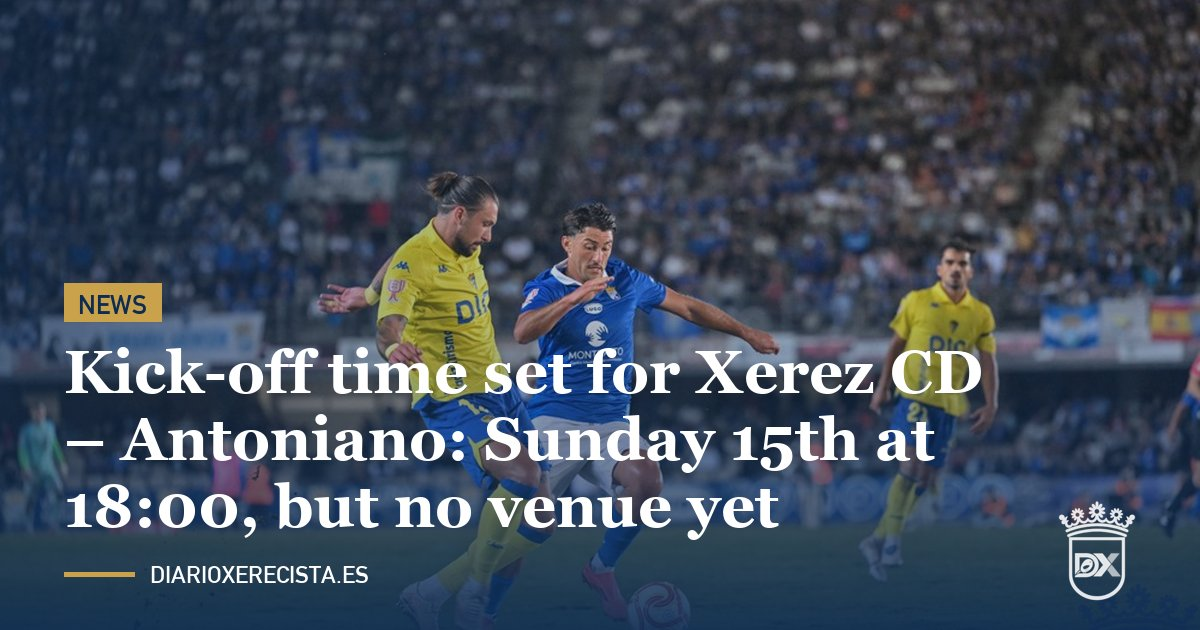
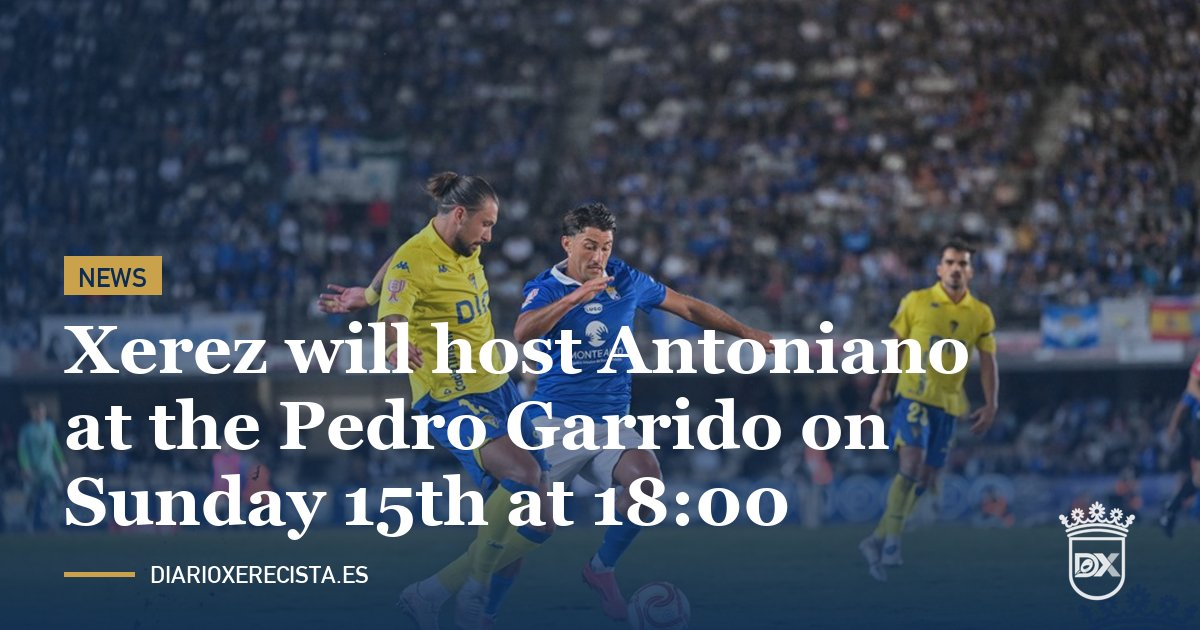
art122: el partido ante el Antoniano será en el Pedro Garrido, con grada supletoria; nuevo titular (ES+EN)

Changed region(s): [[0.0308, 0.3921, 0.8325, 0.8746]]

diff --git a/noticias/articulos/2026-11/ya-hay-horario-para-el-xerez-cd-antoniano-domingo-15-a-las-1800-pero-sin-campo/index.html b/noticias/articulos/2026-11/ya-hay-horario-para-el-xerez-cd-antoniano-domingo-15-a-las-1800-pero-sin-campo/index.html
@@ -3,8 +3,8 @@
 <head>
 <meta charset="UTF-8">
 <meta name="viewport" content="width=device-width, initial-scale=1.0">
-<title>Ya hay horario para el Xerez CD – Antoniano: domingo 15 a las 18:00, pero sin campo | Diario Xerecista</title>
-<meta name="description" content="El partido entre el Xerez CD y el Atlético Antoniano, de la jornada 11 de la Segunda RFEF, Grupo IV, se jugará el domingo 15 de noviembre a las 18:00. Lo que todavía no se sabe es dónde: Chapín no estará disponible por la resiembra del césped.">
+<title>El Xerez recibirá el domingo 15 a las 18:00 al Antoniano en el Pedro Garrido | Diario Xerecista</title>
+<meta name="description" content="El Xerez CD jugará ante el Atlético Antoniano el domingo 15 de noviembre a las 18:00 en el Estadio Pedro Garrido, en la jornada 11 de la Segunda RFEF, Grupo IV. El club quiere instalar una grada supletoria para ampliar el aforo.">
 <meta name="robots" content="index, follow, max-snippet:-1, max-image-preview:large">
 <link rel="canonical" href="https://www.diarioxerecista.es/noticias/articulos/2026-11/ya-hay-horario-para-el-xerez-cd-antoniano-domingo-15-a-las-1800-pero-sin-campo/">
 <link rel="alternate" hreflang="es" href="https://www.diarioxerecista.es/noticias/articulos/2026-11/ya-hay-horario-para-el-xerez-cd-antoniano-domingo-15-a-las-1800-pero-sin-campo/">
@@ -13,8 +13,8 @@
 
 <meta property="og:type" content="article">
 <meta property="og:site_name" content="Diario Xerecista">
-<meta property="og:title" content="Ya hay horario para el Xerez CD – Antoniano: domingo 15 a las 18:00, pero sin campo">
-<meta property="og:description" content="El partido entre el Xerez CD y el Atlético Antoniano, de la jornada 11 de la Segunda RFEF, Grupo IV, se jugará el domingo 15 de noviembre a las 18:00. Lo que todavía no se sabe es dónde: Chapín no estará disponible por la resiembra del césped.">
+<meta property="og:title" content="El Xerez recibirá el domingo 15 a las 18:00 al Antoniano en el Pedro Garrido">
+<meta property="og:description" content="El Xerez CD jugará ante el Atlético Antoniano el domingo 15 de noviembre a las 18:00 en el Estadio Pedro Garrido, en la jornada 11 de la Segunda RFEF, Grupo IV. El club quiere instalar una grada supletoria para ampliar el aforo.">
 <meta property="og:url" content="https://www.diarioxerecista.es/noticias/articulos/2026-11/ya-hay-horario-para-el-xerez-cd-antoniano-domingo-15-a-las-1800-pero-sin-campo/">
 <meta property="og:image" content="https://www.diarioxerecista.es/fotos/redes/art122-es.jpg">
 <meta property="og:image:width" content="1200">
@@ -22,8 +22,8 @@
 <meta property="og:locale" content="es_ES">
 
 <meta name="twitter:card" content="summary_large_image">
-<meta name="twitter:title" content="Ya hay horario para el Xerez CD – Antoniano: domingo 15 a las 18:00, pero sin campo">
-<meta name="twitter:description" content="El partido entre el Xerez CD y el Atlético Antoniano, de la jornada 11 de la Segunda RFEF, Grupo IV, se jugará el domingo 15 de noviembre a las 18:00. Lo que todavía no se sabe es dónde: Chapín no estará disponible por la resiembra del césped.">
+<meta name="twitter:title" content="El Xerez recibirá el domingo 15 a las 18:00 al Antoniano en el Pedro Garrido">
+<meta name="twitter:description" content="El Xerez CD jugará ante el Atlético Antoniano el domingo 15 de noviembre a las 18:00 en el Estadio Pedro Garrido, en la jornada 11 de la Segunda RFEF, Grupo IV. El club quiere instalar una grada supletoria para ampliar el aforo.">
 <meta name="twitter:image" content="https://www.diarioxerecista.es/fotos/redes/art122-es.jpg">
 
 <link rel="preconnect" href="https://fonts.googleapis.com">
@@ -35,13 +35,13 @@
 {
   "@context": "https://schema.org",
   "@type": "NewsArticle",
-  "headline": "Ya hay horario para el Xerez CD – Antoniano: domingo 15 a las 18:00, pero sin campo",
-  "description": "El partido entre el Xerez CD y el Atlético Antoniano, de la jornada 11 de la Segunda RFEF, Grupo IV, se jugará el domingo 15 de noviembre a las 18:00. Lo que todavía no se sabe es dónde: Chapín no estará disponible por la resiembra del césped.",
+  "headline": "El Xerez recibirá el domingo 15 a las 18:00 al Antoniano en el Pedro Garrido",
+  "description": "El Xerez CD jugará ante el Atlético Antoniano el domingo 15 de noviembre a las 18:00 en el Estadio Pedro Garrido, en la jornada 11 de la Segunda RFEF, Grupo IV. El club quiere instalar una grada supletoria para ampliar el aforo.",
   "image": [
     "https://www.diarioxerecista.es/fotos/publicadas/xerez-cadiz-copa-disputa.jpg"
   ],
   "datePublished": "2026-11-02",
-  "dateModified": "2026-11-02",
+  "dateModified": "2026-11-03",
   "inLanguage": "es",
   "author": {
     "@type": "Organization",
@@ -75,24 +75,22 @@
 
   <main class="n-article">
     <span class="eyebrow">Xerez CD · Calendario</span>
-    <h1>Ya hay horario para el Xerez CD – Antoniano: domingo 15 a las 18:00, pero sin campo</h1>
+    <h1>El Xerez recibirá el domingo 15 a las 18:00 al Antoniano en el Pedro Garrido</h1>
 
     <div class="n-photo">
       <img src="../../../../fotos/publicadas/xerez-cadiz-copa-disputa.jpg" alt="Un jugador del Xerez CD conduce el balón ante un rival en Chapín" loading="lazy">
       <span class="n-credit">Foto: Diario Xerecista</span>
     </div>
 
-    <p class="lead">El partido entre el Xerez CD y el Atlético Antoniano, de la jornada 11 de la Segunda RFEF, Grupo IV, se jugará el domingo 15 de noviembre a las 18:00. Lo que todavía no se sabe es dónde: Chapín no estará disponible por la resiembra del césped.</p>
+    <p class="lead">El Xerez CD jugará ante el Atlético Antoniano el domingo 15 de noviembre a las 18:00 en el Estadio Pedro Garrido, en la jornada 11 de la Segunda RFEF, Grupo IV. El club quiere instalar una grada supletoria para ampliar el aforo.</p>
 
-    <p>El horario ya es oficial, pero sigue la incertidumbre sobre el campo. Los trabajos de resiembra del Estadio Municipal de Chapín obligan a dejar el césped sin uso durante 24 días, por lo que el Xerez CD tendrá que jugar como local fuera de su estadio.</p>
+    <p>Queda resuelta la incógnita sobre el campo. Los trabajos de resiembra del Estadio Municipal de Chapín obligan a dejar el césped sin uso durante 24 días, por lo que el Xerez CD jugará como local en el Pedro Garrido, el estadio que el Ayuntamiento de Jerez había ofrecido a los clubes de la ciudad mientras duren los trabajos.</p>
 
-    <h2>Las opciones</h2>
+    <h2>Una grada supletoria</h2>
 
-    <p>El Ayuntamiento de Jerez ha ofrecido el Estadio Pedro Garrido a los dos clubes jerezanos mientras duren los trabajos. Según la prensa local, el club ve ese campo pequeño para la afición xerecista.</p>
+    <p>El club veía el aforo del Pedro Garrido escaso para la afición xerecista. Para que puedan asistir más aficionados, el Xerez quiere instalar una grada supletoria.</p>
 
-    <p>Otra de las opciones que se barajan es El Palmar, en Sanlúcar, que gusta a los aficionados. El problema es que el Atlético Sanluqueño juega como local dos semanas seguidas, lo que complicaría el uso de sus instalaciones.</p>
-
-    <p>También se ha planteado intercambiar el orden de los partidos con el Antoniano: jugar este en Lebrija y el de la segunda vuelta en Chapín. Desde el club lo ven poco probable, ya que tendría que aprobarlo la Federación.</p>
+    <p>Antes de conocerse la sede se habían barajado otras opciones, como El Palmar, en Sanlúcar, o intercambiar el orden de los partidos con el Antoniano para jugar este en Lebrija y el de la segunda vuelta en Chapín.</p>
 
     <h2>El rival</h2>
 
@@ -101,8 +99,8 @@
     <p>Antes, el Xerez tiene otra cita: el domingo 8 visita al Atlético Sanluqueño en El Palmar a las 12:30.</p>
 
     <div class="n-meta-row">
-      <span class="byline">Redacción — 2 de noviembre de 2026</span>
-      <a href="https://x.com/intent/tweet?text=Ya%20hay%20horario%20para%20el%20Xerez%20CD%20%E2%80%93%20Antoniano%3A%20domingo%2015%20a%20las%2018%3A00%2C%20pero%20sin%20campo%0A%0Ahttps%3A%2F%2Fwww.diarioxerecista.es%2Fnoticias%2Farticulos%2F2026-11%2Fya-hay-horario-para-el-xerez-cd-antoniano-domingo-15-a-las-1800-pero-sin-campo%2F%0A%0A%23XerezCD" target="_blank" rel="noopener" class="share-x-btn">Compartir en 𝕏</a>
+      <span class="byline">Redacción — 2 de noviembre de 2026 (actualizada el 3 de noviembre)</span>
+      <a href="https://x.com/intent/tweet?text=El%20Xerez%20recibir%C3%A1%20el%20domingo%2015%20a%20las%2018%3A00%20al%20Antoniano%20en%20el%20Pedro%20Garrido%0A%0Ahttps%3A%2F%2Fwww.diarioxerecista.es%2Fnoticias%2Farticulos%2F2026-11%2Fya-hay-horario-para-el-xerez-cd-antoniano-domingo-15-a-las-1800-pero-sin-campo%2F%3Fv%3D2%0A%0A%23XerezCD" target="_blank" rel="noopener" class="share-x-btn">Compartir en 𝕏</a>
     </div>
 
     <a class="back-link" href="../../../../en/noticias/articulos/2026-11/kick-off-time-set-for-xerez-cd-antoniano-sunday-15th-at-1800-but-no-venue-yet/" style="display:block;margin-bottom:10px;">🇬🇧 Read in English</a>

diff --git a/en/noticias/articulos/2026-11/kick-off-time-set-for-xerez-cd-antoniano-sunday-15th-at-1800-but-no-venue-yet/index.html b/en/noticias/articulos/2026-11/kick-off-time-set-for-xerez-cd-antoniano-sunday-15th-at-1800-but-no-venue-yet/index.html
@@ -3,8 +3,8 @@
 <head>
 <meta charset="UTF-8">
 <meta name="viewport" content="width=device-width, initial-scale=1.0">
-<title>Kick-off time set for Xerez CD – Antoniano: Sunday 15th at 18:00, but no venue yet | Diario Xerecista</title>
-<meta name="description" content="The match between Xerez CD and Atlético Antoniano, on matchday 11 of Segunda RFEF, Group IV, will be played on Sunday 15 November at 18:00. What is still unknown is where: Chapín will not be available because the pitch is being reseeded.">
+<title>Xerez will host Antoniano at the Pedro Garrido on Sunday 15th at 18:00 | Diario Xerecista</title>
+<meta name="description" content="Xerez CD will face Atlético Antoniano on Sunday 15 November at 18:00 at the Estadio Pedro Garrido, on matchday 11 of Segunda RFEF, Group IV. The club want to install a temporary stand to increase capacity.">
 <meta name="robots" content="index, follow, max-snippet:-1, max-image-preview:large">
 <link rel="canonical" href="https://www.diarioxerecista.es/en/noticias/articulos/2026-11/kick-off-time-set-for-xerez-cd-antoniano-sunday-15th-at-1800-but-no-venue-yet/">
 <link rel="alternate" hreflang="es" href="https://www.diarioxerecista.es/noticias/articulos/2026-11/ya-hay-horario-para-el-xerez-cd-antoniano-domingo-15-a-las-1800-pero-sin-campo/">
@@ -13,8 +13,8 @@
 
 <meta property="og:type" content="article">
 <meta property="og:site_name" content="Diario Xerecista">
-<meta property="og:title" content="Kick-off time set for Xerez CD – Antoniano: Sunday 15th at 18:00, but no venue yet">
-<meta property="og:description" content="The match between Xerez CD and Atlético Antoniano, on matchday 11 of Segunda RFEF, Group IV, will be played on Sunday 15 November at 18:00. What is still unknown is where: Chapín will not be available because the pitch is being reseeded.">
+<meta property="og:title" content="Xerez will host Antoniano at the Pedro Garrido on Sunday 15th at 18:00">
+<meta property="og:description" content="Xerez CD will face Atlético Antoniano on Sunday 15 November at 18:00 at the Estadio Pedro Garrido, on matchday 11 of Segunda RFEF, Group IV. The club want to install a temporary stand to increase capacity.">
 <meta property="og:url" content="https://www.diarioxerecista.es/en/noticias/articulos/2026-11/kick-off-time-set-for-xerez-cd-antoniano-sunday-15th-at-1800-but-no-venue-yet/">
 <meta property="og:image" content="https://www.diarioxerecista.es/fotos/redes/art122-en.jpg">
 <meta property="og:image:width" content="1200">
@@ -22,8 +22,8 @@
 <meta property="og:locale" content="en_GB">
 
 <meta name="twitter:card" content="summary_large_image">
-<meta name="twitter:title" content="Kick-off time set for Xerez CD – Antoniano: Sunday 15th at 18:00, but no venue yet">
-<meta name="twitter:description" content="The match between Xerez CD and Atlético Antoniano, on matchday 11 of Segunda RFEF, Group IV, will be played on Sunday 15 November at 18:00. What is still unknown is where: Chapín will not be available because the pitch is being reseeded.">
+<meta name="twitter:title" content="Xerez will host Antoniano at the Pedro Garrido on Sunday 15th at 18:00">
+<meta name="twitter:description" content="Xerez CD will face Atlético Antoniano on Sunday 15 November at 18:00 at the Estadio Pedro Garrido, on matchday 11 of Segunda RFEF, Group IV. The club want to install a temporary stand to increase capacity.">
 <meta name="twitter:image" content="https://www.diarioxerecista.es/fotos/redes/art122-en.jpg">
 
 <link rel="preconnect" href="https://fonts.googleapis.com">
@@ -35,13 +35,13 @@
 {
   "@context": "https://schema.org",
   "@type": "NewsArticle",
-  "headline": "Kick-off time set for Xerez CD – Antoniano: Sunday 15th at 18:00, but no venue yet",
-  "description": "The match between Xerez CD and Atlético Antoniano, on matchday 11 of Segunda RFEF, Group IV, will be played on Sunday 15 November at 18:00. What is still unknown is where: Chapín will not be available because the pitch is being reseeded.",
+  "headline": "Xerez will host Antoniano at the Pedro Garrido on Sunday 15th at 18:00",
+  "description": "Xerez CD will face Atlético Antoniano on Sunday 15 November at 18:00 at the Estadio Pedro Garrido, on matchday 11 of Segunda RFEF, Group IV. The club want to install a temporary stand to increase capacity.",
   "image": [
     "https://www.diarioxerecista.es/fotos/publicadas/xerez-cadiz-copa-disputa.jpg"
   ],
   "datePublished": "2026-11-02",
-  "dateModified": "2026-11-02",
+  "dateModified": "2026-11-03",
   "inLanguage": "en",
   "author": {
     "@type": "Organization",
@@ -75,24 +75,22 @@
 
   <main class="n-article">
     <span class="eyebrow">Xerez CD · Fixtures</span>
-    <h1>Kick-off time set for Xerez CD – Antoniano: Sunday 15th at 18:00, but no venue yet</h1>
+    <h1>Xerez will host Antoniano at the Pedro Garrido on Sunday 15th at 18:00</h1>
 
     <div class="n-photo">
       <img src="../../../../../fotos/publicadas/xerez-cadiz-copa-disputa.jpg" alt="A Xerez CD player runs with the ball against an opponent at Chapín" loading="lazy">
       <span class="n-credit">Photo: Diario Xerecista</span>
     </div>
 
-    <p class="lead">The match between Xerez CD and Atlético Antoniano, on matchday 11 of Segunda RFEF, Group IV, will be played on Sunday 15 November at 18:00. What is still unknown is where: Chapín will not be available because the pitch is being reseeded.</p>
+    <p class="lead">Xerez CD will face Atlético Antoniano on Sunday 15 November at 18:00 at the Estadio Pedro Garrido, on matchday 11 of Segunda RFEF, Group IV. The club want to install a temporary stand to increase capacity.</p>
 
-    <p>The kick-off time is now official, but uncertainty remains over the venue. The reseeding work at the Estadio Municipal de Chapín means the pitch cannot be used for 24 days, so Xerez CD will have to play their home game away from their stadium.</p>
+    <p>The question over the venue has been resolved. The reseeding work at the Estadio Municipal de Chapín means the pitch cannot be used for 24 days, so Xerez CD will play their home game at the Pedro Garrido, the stadium Jerez City Council had offered to the city's clubs for as long as the work lasts.</p>
 
-    <h2>The options</h2>
+    <h2>A temporary stand</h2>
 
-    <p>Jerez City Council has offered the Estadio Pedro Garrido to both Jerez clubs for as long as the work lasts. According to the local press, the club considers that ground too small for the Xerez support.</p>
+    <p>The club considered the capacity of the Pedro Garrido too small for the Xerez support. So that more fans can attend, Xerez want to install a temporary stand.</p>
 
-    <p>Another option being considered is El Palmar, in Sanlúcar, which is popular with the fans. The problem is that Atlético Sanluqueño play at home two weeks in a row, which would complicate the use of their facilities.</p>
-
-    <p>Swapping the order of the fixtures with Antoniano has also been suggested: playing this game in Lebrija and the second-round meeting at Chapín. The club see this as unlikely, since the Federation would have to approve it.</p>
+    <p>Before the venue was known, other options had been considered, such as El Palmar, in Sanlúcar, or swapping the order of the fixtures with Antoniano to play this game in Lebrija and the second-round meeting at Chapín.</p>
 
     <h2>The opponents</h2>
 
@@ -101,8 +99,8 @@
     <p>Before that, Xerez have another fixture: on Sunday 8th they visit Atlético Sanluqueño at El Palmar at 12:30.</p>
 
     <div class="n-meta-row">
-      <span class="byline">Newsroom — 2 November 2026</span>
-      <a href="https://x.com/intent/tweet?text=Kick-off%20time%20set%20for%20Xerez%20CD%20%E2%80%93%20Antoniano%3A%20Sunday%2015th%20at%2018%3A00%2C%20but%20no%20venue%20yet%0A%0Ahttps%3A%2F%2Fwww.diarioxerecista.es%2Fen%2Fnoticias%2Farticulos%2F2026-11%2Fkick-off-time-set-for-xerez-cd-antoniano-sunday-15th-at-1800-but-no-venue-yet%2F%0A%0A%23XerezCD" target="_blank" rel="noopener" class="share-x-btn">Share on 𝕏</a>
+      <span class="byline">Newsroom — 2 November 2026 (updated 3 November)</span>
+      <a href="https://x.com/intent/tweet?text=Xerez%20will%20host%20Antoniano%20at%20the%20Pedro%20Garrido%20on%20Sunday%2015th%20at%2018%3A00%0A%0Ahttps%3A%2F%2Fwww.diarioxerecista.es%2Fen%2Fnoticias%2Farticulos%2F2026-11%2Fkick-off-time-set-for-xerez-cd-antoniano-sunday-15th-at-1800-but-no-venue-yet%2F%3Fv%3D2%0A%0A%23XerezCD" target="_blank" rel="noopener" class="share-x-btn">Share on 𝕏</a>
     </div>
 
     <a class="back-link" href="../../../../../noticias/articulos/2026-11/ya-hay-horario-para-el-xerez-cd-antoniano-domingo-15-a-las-1800-pero-sin-campo/" style="display:block;margin-bottom:10px;">🇪🇸 Leer en español</a>
